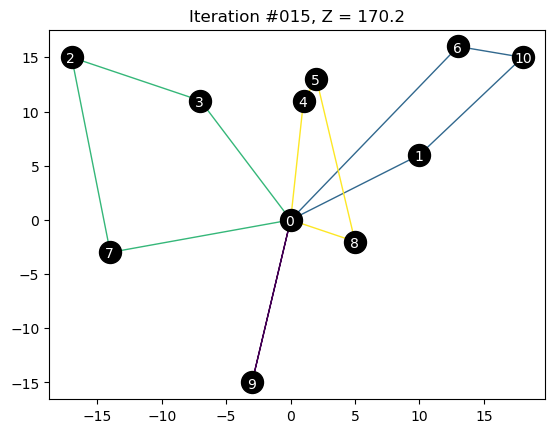
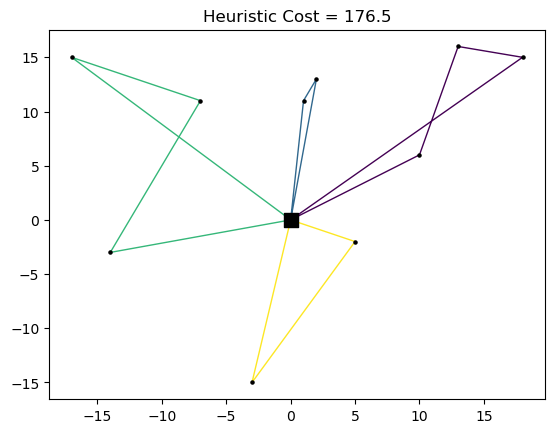
implemented CW heuristic and tested it

diff --git a/src/solver/column_generation/initial_solution.py b/src/solver/column_generation/initial_solution.py
@@ -1,4 +1,4 @@
-from typing import Dict, List
+from typing import Dict, List, Tuple
 
 import numpy as np
 
@@ -92,3 +92,130 @@ def _get_closest_open_client(
         min_index = np.argmin(distances[origin, subset])
         closest_client = subset[min_index]
     return closest_client
+
+
+def clarke_and_wright(data: CVRP) -> Solution:
+    """Applies Clarke & Wright heuristic
+
+    Args:
+        data (CVRP):
+
+    Returns:
+        Solution:
+    """
+    print(f"\nRunning Clarke & Wright:")
+    # First start from the one-route-per-client initial solution
+    # Each element in this list is a tuple of ([0,c1,c2,...,0], cap_used)
+    routes = []
+    for c in data.customers:
+        routes.append(([0, c, 0], data.demand[c]))
+    # print(f"Initial routes:")
+    # for r in routes:
+    #     print(f"\t{r}")
+
+    # Compute savings
+    # Each element is (saving $, i, j)
+    savings: List[float, Tuple[int, int]] = []
+    for i in data.customers:
+        for j in data.customers:
+            if i < j:
+                saving = data.distance[0, i] + data.distance[0, j] - data.distance[i, j]
+                if saving > 0:
+                    savings.append((saving, i, j))
+    savings.sort(reverse=True)
+    # print(f"\nSavings:")
+    # for s in savings:
+    #     print(f"\t{s}")
+
+    while len(savings) > 0:
+
+        savings_to_remove = []
+        for s in savings:
+            saving, i, j = s
+
+            # Determine whether we can put the link (i,j) or (j,i) together
+            index_i = _cw_get_route_index_of_customer(i, routes)
+            index_j = _cw_get_route_index_of_customer(j, routes)
+            ri, ki = routes[index_i]  # route and cap
+            rj, kj = routes[index_j]  # route and cap
+
+            # First check: combining the capacities is feasible
+            if ki + kj > data.q:
+                savings_to_remove.append(s)
+                continue
+
+            # Find which is the route_ini and route_end to be merged
+            route_ini = None
+            route_end = None
+
+            # Case (1): rj starts with j (0,j,....) and ri ends with i (0,...,i,0)
+            if rj[1] == j and ri[-2] == i:
+                route_ini = rj
+                route_end = ri
+
+            # Case (2): ri starts with i (0,i,....) and rj ends with j (0,...,j,0)
+            elif ri[1] == i and rj[-2] == j:
+                route_ini = ri
+                route_end = rj
+
+            # Case (3): i or j are interior, cant be merged
+            else:
+                continue
+
+            # Apply the merge
+            route_merge = _cw_merge_routes(route_ini, route_end)
+            routes.remove((ri, ki))
+            routes.remove((rj, kj))
+            routes.append((route_merge, ki + kj))
+            savings_to_remove.append(s)
+
+        # Remove unfeasible and applied savings
+        savings = [s for s in savings if s not in savings_to_remove]
+        # print(f"{len(savings)} savings left")
+
+    # print(f"The final routes are:")
+    # for r in routes:
+    #     print(r)
+
+    # Assemble solution
+    routes_dict = {}
+    for i, (nodes, cap) in enumerate(routes):
+        routes_dict[i + 1] = Route(nodes)
+    solution = Solution(data, routes_dict)
+    return solution
+
+
+def _cw_get_route_index_of_customer(id: int, routes: list):
+    """Internal to Clarke & Wright.
+    Retrieves the index of the route having this customer
+
+    Args:
+        id (int):
+        routes (list):
+    """
+    for i, (r, cap) in enumerate(routes):
+        if id in r:
+            return i
+    return None
+
+
+def _cw_merge_routes(route_ini: list, route_end: list) -> list:
+    """Merges route_ini with route_end through the last link of
+    route_ini with the initial link of route_end. We remove link
+    (i,0) from the first, remove (j,0) from the second and merge them
+    through (i,j)
+
+    Args:
+        route_ini (list): this is the structure [0,...,i,0]
+        route_end (list): this is the structure [0,j....,0]
+
+    Returns:
+        route_merge (list): the structure is [0,...,i,j,...,0]
+    """
+    assert len(route_ini) >= 3
+    assert len(route_end) >= 3
+    route_merge = route_ini.copy()
+    route_merge = route_merge[0:-1]  # remove the last node
+    second_part = route_end.copy()[1:]  # starting from j
+    route_merge.extend(second_part)
+    return route_merge

diff --git a/src/solver/column_generation/method.py b/src/solver/column_generation/method.py
@@ -34,16 +34,17 @@ class SolverColumnGeneration:
 
         # heuristic solution
         # self.initial_solution = initial_solution.closest_client(instance)
-        self.initial_solution = initial_solution.one_route_per_client(instance)
+        # self.initial_solution = initial_solution.one_route_per_client(instance)
+        self.initial_solution = initial_solution.clarke_and_wright(instance)
         instance.draw(
             self.initial_solution.routes,
-            title=f"Heuristic Cost = {round(self.initial_solution.total_cost, 1)}",
+            title=f"Heuristic Cost = {round(self.initial_solution.get_cost(), 1)}",
             filename="heuristic",
             folder_to_save=folder,
         )
         instance.draw(
             self.initial_solution.routes,
-            title=f"Heuristic Cost = {round(self.initial_solution.total_cost, 1)}",
+            title=f"Heuristic Cost = {round(self.initial_solution.get_cost(), 1)}",
             filename="current",
             folder_to_save=folder,
         )

diff --git a/src/problem/solution.py b/src/problem/solution.py
@@ -24,10 +24,13 @@ class Solution:
             clients_covered.update(r.clients)
         assert clients_covered == set(self.instance.customers)
 
-        # Compute the cost per route and solution cost
-        self.cost_per_route: Dict[int, float] = dict()
-        for id, r in self.routes.items():
-            cost = instance.get_route_cost(r)
-            self.cost_per_route[id] = cost
+    def get_cost(self) -> float:
+        """Retrieves the cost of this solution
 
-        self.total_cost: float = sum(self.cost_per_route.values())
+        Returns:
+            cost (float):
+        """
+        cost = 0
+        for r in self.routes.values():
+            cost += self.instance.get_route_cost(r)
+        return cost

diff --git a/src/main.py b/src/main.py
@@ -25,5 +25,5 @@ if __name__ == "__main__":
     filepath = os.path.join(instance_folder, instance) + ".json"
     data = CVRP(filepath)
     solver = SolverColumnGeneration(
-        instance=data, folder=instance_folder, max_iterations=100
+        instance=data, folder=instance_folder, max_iterations=2
     )

diff --git a/src/problem/cvrp.py b/src/problem/cvrp.py
@@ -168,5 +168,6 @@ class CVRP:
         # Save the fig
         filepath = os.path.join(folder_to_save, filename) + ".png"
         plt.savefig(filepath, bbox_inches="tight", pad_inches=0.1)
+        fig.clear()
         plt.clf()
         print(f"Saved {filepath}")

diff --git a/src/tempCodeRunnerFile.py b/src/tempCodeRunnerFile.py
@@ -1,0 +1,3 @@
+
+        instance=data, folder=instance_folder, max_iterations=2
+    )
